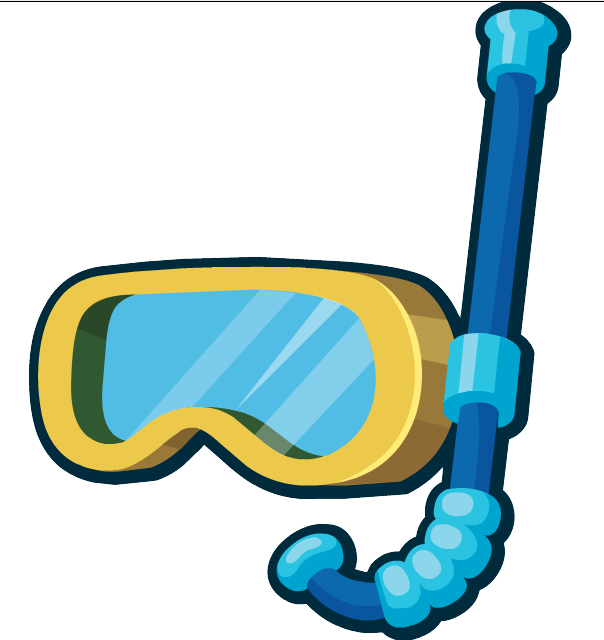
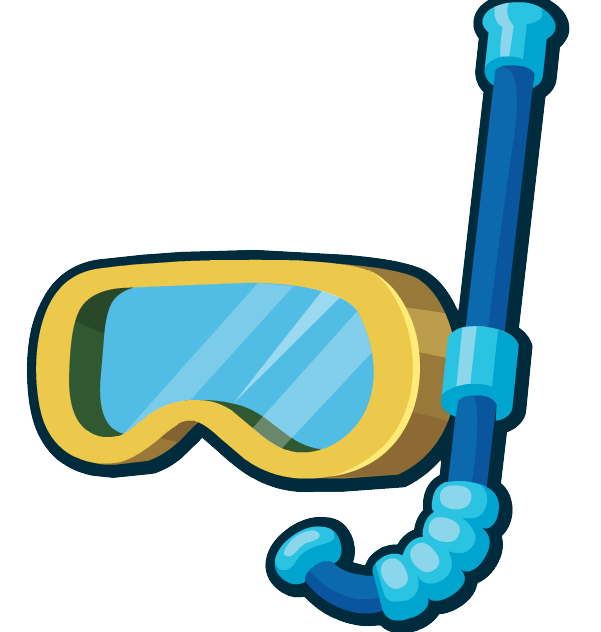
About Image - floating animation

diff --git a/index.html b/index.html
@@ -45,7 +45,7 @@
           <span class="home__title--color">A Front End</span> Developer
         </h1>
         <!-- <a href="#" class="button">Contact</a> -->
-        <div class="home__image">
+        <div class="home__image" id="arthur-pic">
           <img src="img/snorkel-cartoon.png" class="home__image--snorkel" />
           <canvas class="home__bubble-container" id="snorkel-bubble"></canvas>
           <svg viewBox="50 50 400 400" xmlns="http://www.w3.org/2000/svg" xmlns:xlink="http://www.w3.org/1999/xlink"
@@ -120,7 +120,7 @@
         <div class="skills__names">
           <i class="bx bxl-nodejs skills__icon"></i> <span>Nodejs</span>
         </div>
-        <div class="skills__percentage"><span>Ex-girlfriend</span></div>
+        <div class="skills__percentage"><span>Ex</span></div>
         <div class="skills__bar skills__bar--nodejs"></div>
       </div>
 
@@ -152,9 +152,9 @@
   <footer class="footer">
     <p class="footer__title">Arthur</p>
     <div class="footer__social">
-      <a href="#" class="footer__icon"><i class="bx bxl-github"></i></a>
-      <a href="#" class="footer__icon"><i class="bx bxl-codepen"></i></a>
-      <a href="#" class="footer__icon"><i class="bx bxl-instagram"></i></a>
+      <a href="https://github.com/znxkznxk1030" class="footer__icon"><i class="bx bxl-github"></i></a>
+      <a href="https://codepen.io/znxkznxk1030" class="footer__icon"><i class="bx bxl-codepen"></i></a>
+      <a href="https://arthur.tistory.com/" class="footer__icon"><i class="bx bx-pencil"></i></a>
     </div>
     <p>&#169;2021 copyright all right reserved</p>
   </footer>

diff --git a/app.js b/app.js
@@ -50,7 +50,8 @@ const t1 = gsap
 
 t1.from('.home__image--snorkel', { opacity: 0, top: '-120px' }, 'target-point');
 t1.from('.home__bubble-container', { opacity: 0 }, 'target-point');
-t1.to('.home__title--A', { color: "#fff" });
+t1.to('.home__title--A', { color: "#fff" }, "late-point");
+t1.to('.home__image', { transform: "scale(1.3)" }, "late-point");
 // t1.from('.home__image--gold', { opacity: 0, left: '-150px' }, 'target-point');
 
 // css로 처리할 수 없는 에니메이션 처리
@@ -58,10 +59,16 @@ const heightPadding = 0;
 setInterval(() => {
   // console.log(progress);
   if (wave != null) {
-    referHeight = innerHeight - (innerHeight * progress) - heightPadding;
+    referHeight = innerHeight - (innerHeight * progress) * 3 - heightPadding;
   }
-}, 100);
+}, 300);
 
+
+const arthurImg = document.getElementById('arthur-pic');
+
+arthurImg.addEventListener('click', () => {
+  window.location.href = "https://github.com/znxkznxk1030";
+})
 
 
 
@@ -119,6 +126,9 @@ class Point {
 class Wave {
   constructor() {
     this.numPoints = 7;
+    if (innerWidth < 700) {
+      this.numPoints = 4;
+    }
     this.gap = innerWidth / (this.numPoints - 1);
     this.init();
   }

diff --git a/style.css b/style.css
@@ -93,6 +93,7 @@ img{
   font-size: var(--h2-font-size);
   color: var(--first-color);
   margin-top: var(--mb-2);
+  margin-bottom: var(--mb-2);
   text-align: center;
 }
 
@@ -140,6 +141,7 @@ section {
   margin-left: var(--mb-2);
   margin-right: var(--mb-2);
 }
+
 
 /* Desktop */
 @media screen and (min-width: 769px) {
@@ -270,6 +272,7 @@ section {
   align-self: center;
   margin-left: var(--mb-5);
   margin-right: var(--mb-2);
+  user-select: none;
 }
 
 .home__title {
@@ -319,6 +322,28 @@ section {
   position: absolute;
   bottom: 0rem;
   right: 1rem;
+  cursor: pointer;
+}
+
+.about-img {
+  animation-name: floating;
+  animation-duration: 2s;
+  animation-iteration-count: infinite;
+  transform-origin: center;
+}
+
+@keyframes floating {
+  0% {
+    transform: translateY(-5%) rotate(5deg);
+  }
+
+  50% {
+    transform: translateY(5%) rotate(-5deg);
+  }
+
+  100% {
+    transform: translateY(-5%) rotate(5deg);
+  }
 }
 
 :root {
@@ -427,7 +452,7 @@ section {
 }
 
 .skills__data:hover {
-  transform: translateX(-15%);
+  transform: translateX(-5%);
 }
 
 
